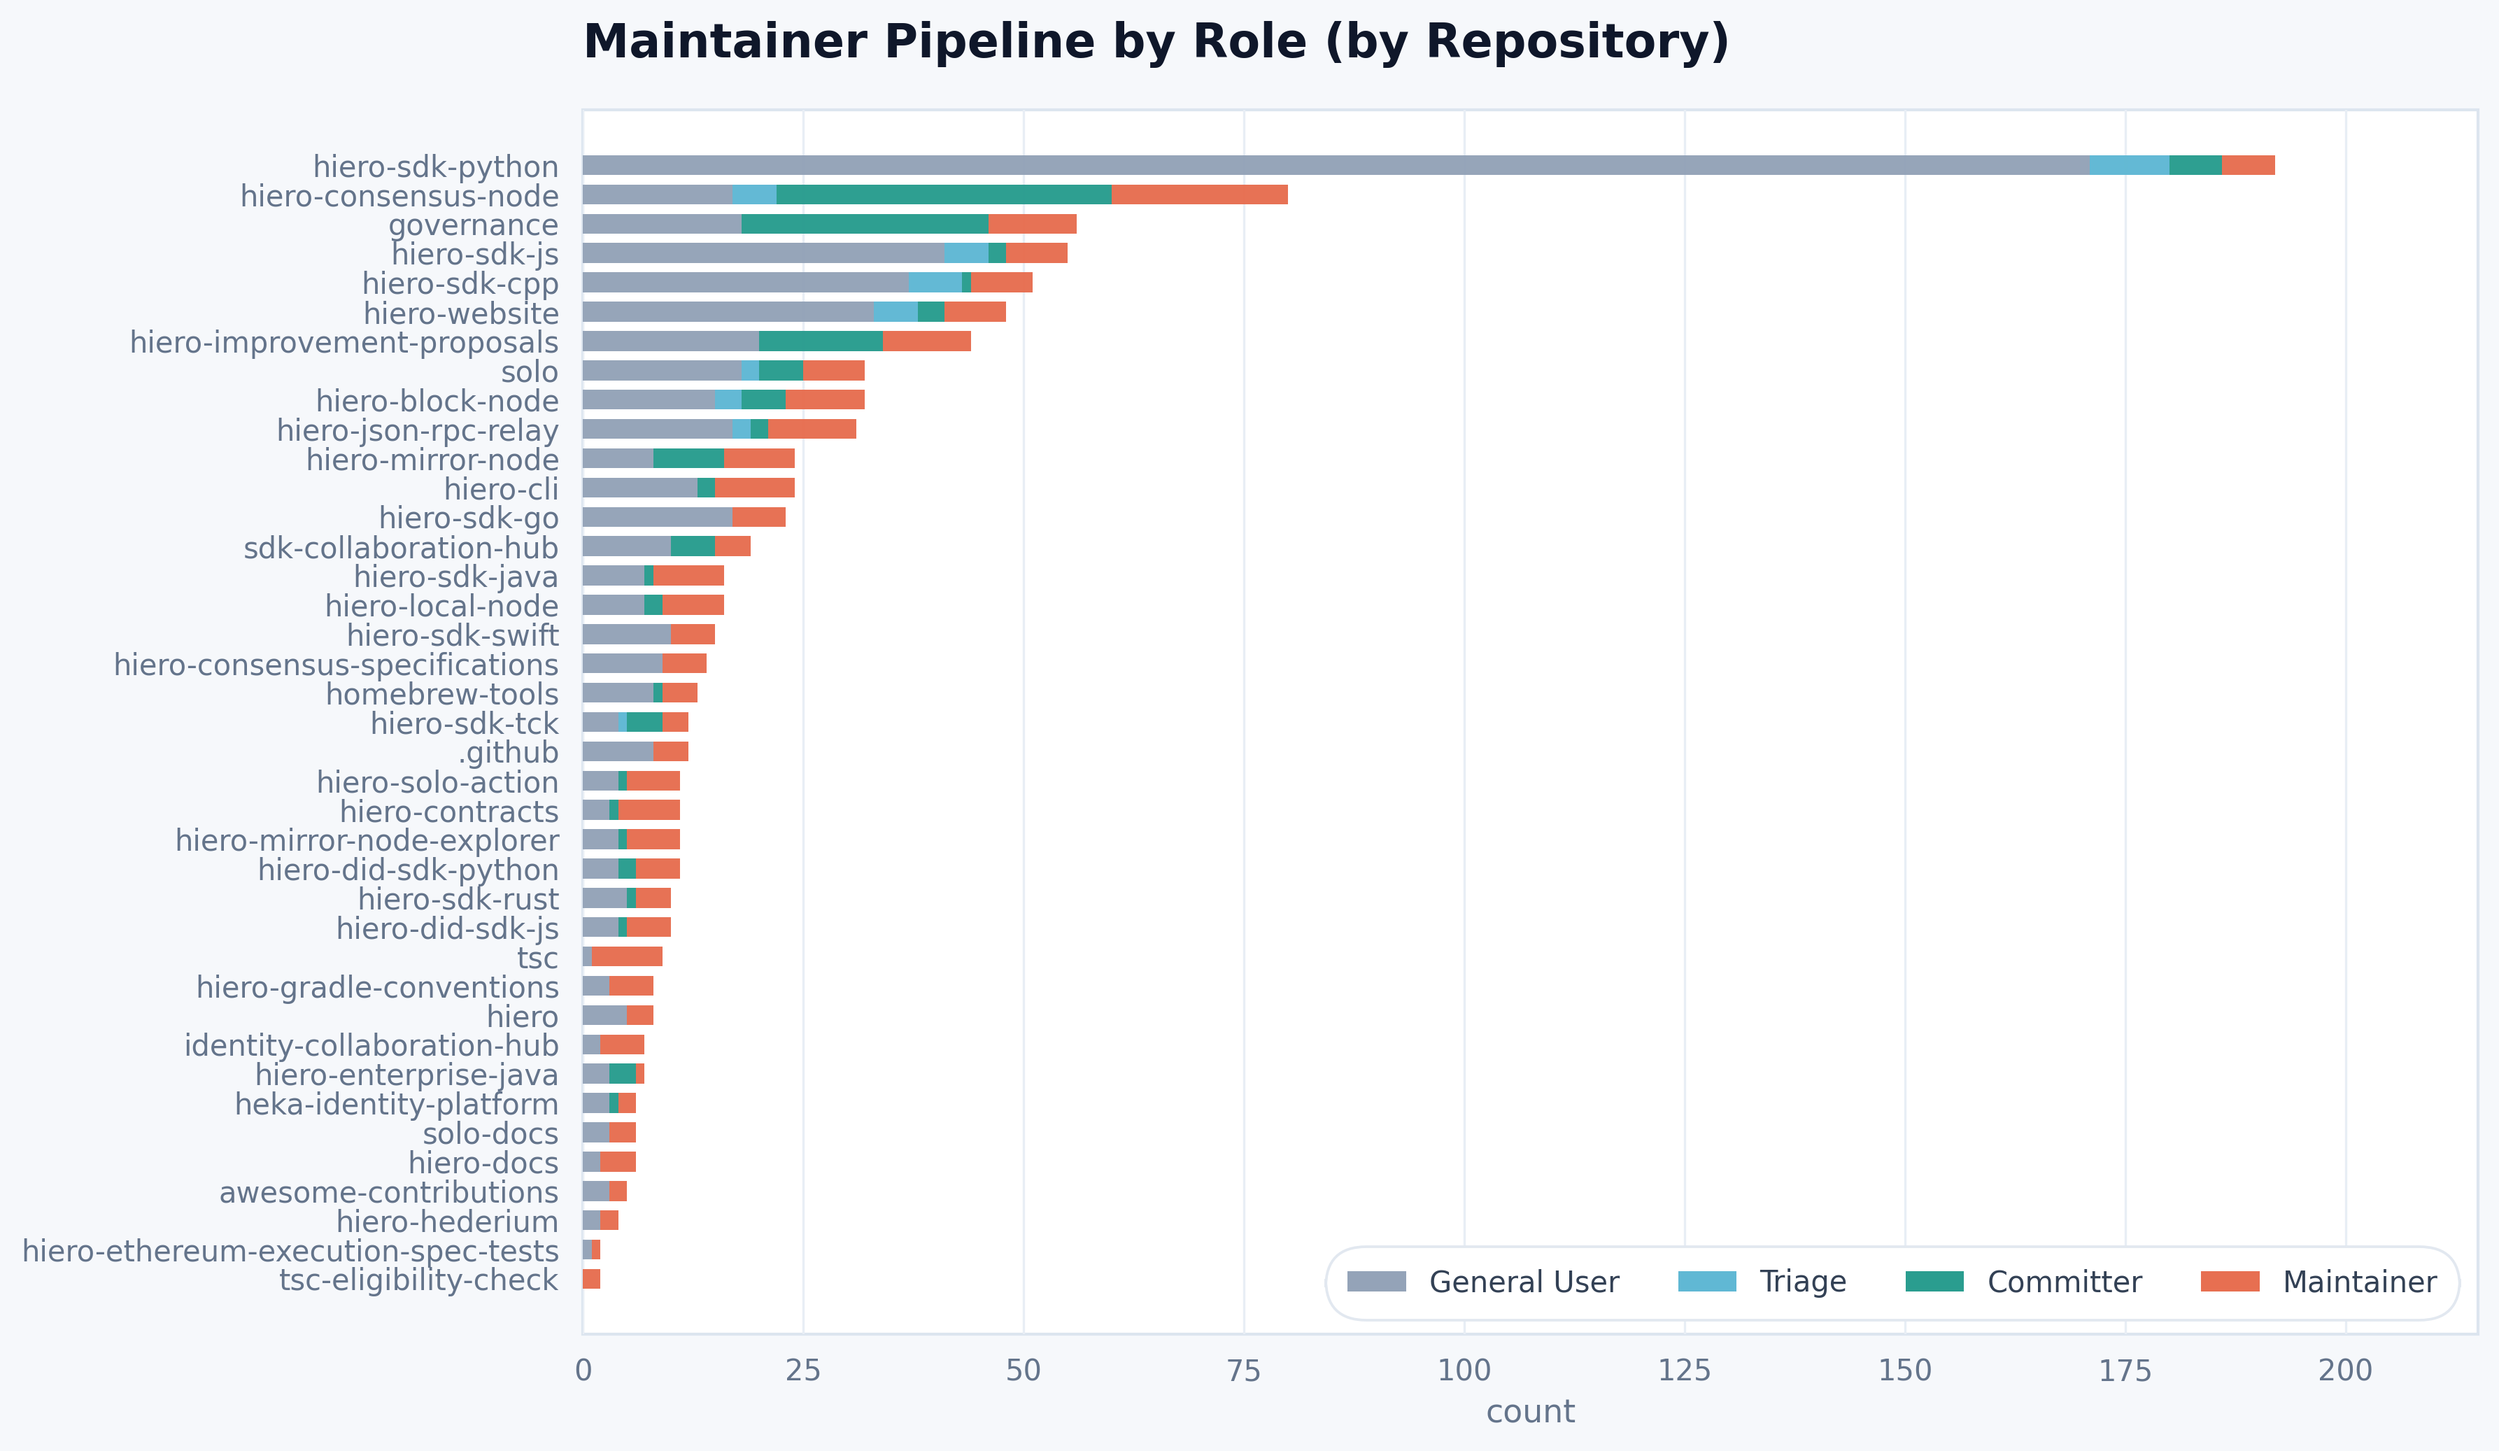
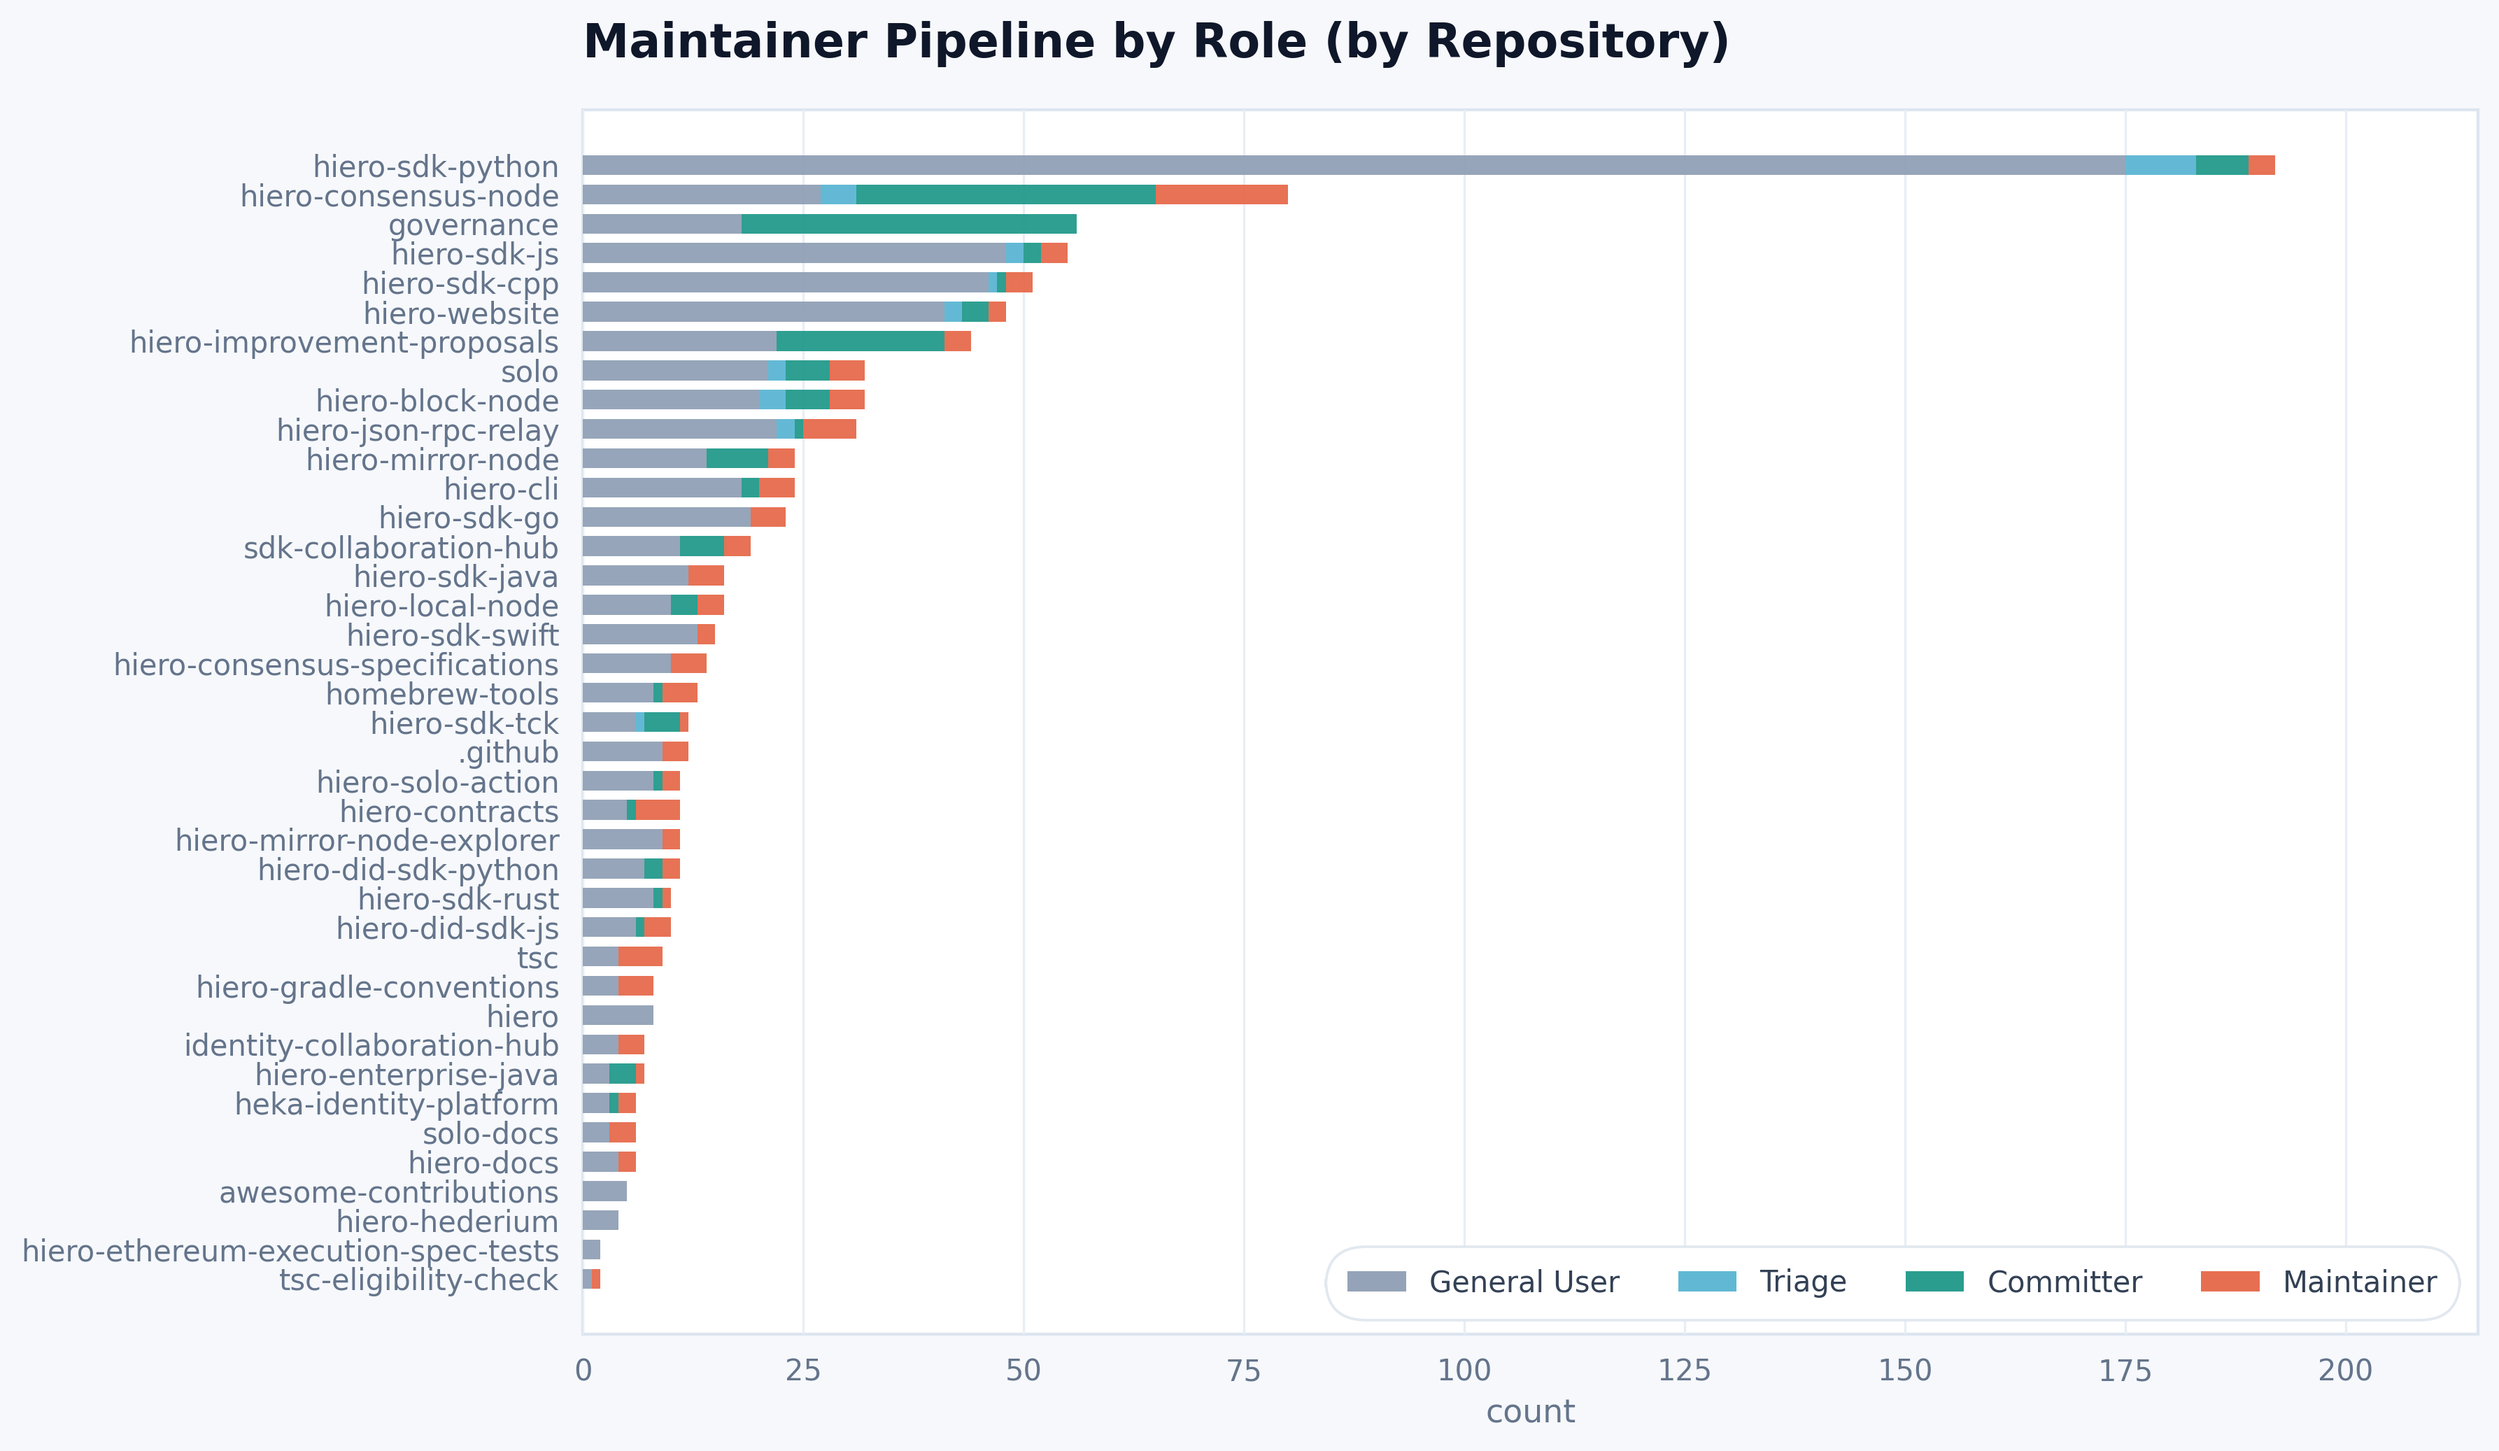
fix: on the maintainer pipeline

diff --git a/tests/data_sources/test_governance_config.py b/tests/data_sources/test_governance_config.py
@@ -1,7 +1,10 @@
+"""Tests for governance-config role mapping helpers."""
+
 from hiero_analytics.data_sources.governance_config import build_repo_role_lookup, permission_to_role
 
 
 def test_permission_to_role_maps_repo_permissions():
+    """Repository permissions should normalize into maintainer-pipeline roles."""
     assert permission_to_role("triage") == "triage"
     assert permission_to_role("write") == "committer"
     assert permission_to_role("maintain") == "maintainer"
@@ -10,20 +13,21 @@ def test_permission_to_role_maps_repo_permissions():
 
 
 def test_build_repo_role_lookup_assigns_highest_role_per_user():
+    """Repo-affined teams should resolve each user to their highest repo role."""
     config = {
         "teams": [
             {
-                "name": "repo-triage",
+                "name": "repo-a-triage",
                 "maintainers": ["triage-lead"],
                 "members": ["alice"],
             },
             {
-                "name": "repo-committers",
+                "name": "repo-a-committers",
                 "maintainers": ["commit-lead"],
                 "members": ["alice", "bob"],
             },
             {
-                "name": "repo-maintainers",
+                "name": "repo-a-maintainers",
                 "maintainers": ["maint-lead"],
                 "members": ["carol"],
             },
@@ -32,9 +36,9 @@ def test_build_repo_role_lookup_assigns_highest_role_per_user():
             {
                 "name": "repo-a",
                 "teams": {
-                    "repo-triage": "triage",
-                    "repo-committers": "write",
-                    "repo-maintainers": "maintain",
+                    "repo-a-triage": "triage",
+                    "repo-a-committers": "write",
+                    "repo-a-maintainers": "maintain",
                 },
             }
         ],
@@ -47,3 +51,74 @@ def test_build_repo_role_lookup_assigns_highest_role_per_user():
     assert repo_role_lookup["repo-a"]["bob"] == "committer"
     assert repo_role_lookup["repo-a"]["maint-lead"] == "maintainer"
     assert repo_role_lookup["repo-a"]["carol"] == "maintainer"
+
+
+def test_build_repo_role_lookup_excludes_global_and_more_specific_repo_teams():
+    """Broad teams and teams owned by a more specific repo should be ignored."""
+    config = {
+        "teams": [
+            {
+                "name": "solo-admins",
+                "maintainers": ["solo-admin"],
+                "members": [],
+            },
+            {
+                "name": "solo-docs-admins",
+                "maintainers": ["docs-admin"],
+                "members": [],
+            },
+            {
+                "name": "github-maintainers",
+                "maintainers": ["global-admin"],
+                "members": [],
+            },
+        ],
+        "repositories": [
+            {
+                "name": "solo",
+                "teams": {
+                    "solo-admins": "admin",
+                    "solo-docs-admins": "admin",
+                    "github-maintainers": "maintain",
+                },
+            },
+            {
+                "name": "solo-docs",
+                "teams": {
+                    "solo-docs-admins": "admin",
+                    "github-maintainers": "maintain",
+                },
+            },
+        ],
+    }
+
+    repo_role_lookup = build_repo_role_lookup(config)
+
+    assert repo_role_lookup["solo"] == {"solo-admin": "maintainer"}
+    assert repo_role_lookup["solo-docs"] == {"docs-admin": "maintainer"}
+
+
+def test_build_repo_role_lookup_normalizes_usernames():
+    """GitHub usernames should be trimmed and matched case-insensitively."""
+    config = {
+        "teams": [
+            {
+                "name": "hiero-website-committers",
+                "maintainers": ["LeadMaintainer "],
+                "members": ["ExplorerIII"],
+            }
+        ],
+        "repositories": [
+            {
+                "name": "hiero-website",
+                "teams": {
+                    "hiero-website-committers": "write",
+                },
+            }
+        ],
+    }
+
+    repo_role_lookup = build_repo_role_lookup(config)
+
+    assert repo_role_lookup["hiero-website"]["leadmaintainer"] == "committer"
+    assert repo_role_lookup["hiero-website"]["exploreriii"] == "committer"

diff --git a/src/hiero_analytics/data_sources/governance_config.py b/src/hiero_analytics/data_sources/governance_config.py
@@ -1,6 +1,9 @@
+"""Helpers for mapping governance config teams to repo-scoped contributor roles."""
+
 from __future__ import annotations
 
 import os
+import re
 from collections import defaultdict
 from typing import Any
 
@@ -22,6 +25,37 @@ ROLE_PRIORITY = {
 }
 
 
+def _normalize_username(user: str) -> str:
+    """Normalize GitHub logins for case-insensitive matching."""
+    return user.strip().lower()
+
+
+def _tokenize_name(value: str) -> tuple[str, ...]:
+    """Split a governance name into normalized alphanumeric tokens."""
+    return tuple(token for token in re.split(r"[^a-z0-9]+", value.lower()) if token)
+
+
+def _best_matching_repo_for_team(
+    team_name: str,
+    repo_name_tokens: dict[str, tuple[str, ...]],
+) -> str | None:
+    """Return the most specific repository name prefixed by the team name."""
+    team_tokens = _tokenize_name(team_name)
+
+    best_repo: str | None = None
+    best_length = 0
+    for repo_name, tokens in repo_name_tokens.items():
+        if len(tokens) > len(team_tokens):
+            continue
+        if team_tokens[: len(tokens)] != tokens:
+            continue
+        if len(tokens) > best_length:
+            best_repo = repo_name
+            best_length = len(tokens)
+
+    return best_repo
+
+
 def fetch_governance_config(url: str = GOVERNANCE_CONFIG_URL) -> dict[str, Any]:
     """Fetch and parse the Hiero governance config file."""
     response = requests.get(url, timeout=HTTP_TIMEOUT_SECONDS)
@@ -38,6 +72,11 @@ def build_repo_role_lookup(config: dict[str, Any]) -> dict[str, dict[str, str]]:
     """Build repo -> user -> highest governance role lookup from config.yaml."""
     teams = config.get("teams", [])
     repositories = config.get("repositories", [])
+    repo_name_tokens = {
+        repo["name"]: _tokenize_name(repo["name"])
+        for repo in repositories
+        if isinstance(repo, dict) and isinstance(repo.get("name"), str)
+    }
 
     team_members: dict[str, set[str]] = {}
     for team in teams:
@@ -52,8 +91,15 @@ def build_repo_role_lookup(config: dict[str, Any]) -> dict[str, dict[str, str]]:
         for field in ("maintainers", "members"):
             values = team.get(field, [])
             if isinstance(values, list):
-                members.update(user for user in values if isinstance(user, str) and user)
+                members.update(
+                    _normalize_username(user) for user in values if isinstance(user, str) and user
+                )
         team_members[name] = members
+
+    team_repo_affinity = {
+        team_name: _best_matching_repo_for_team(team_name, repo_name_tokens)
+        for team_name in team_members
+    }
 
     repo_roles: dict[str, dict[str, str]] = {}
     for repo in repositories:
@@ -67,6 +113,9 @@ def build_repo_role_lookup(config: dict[str, Any]) -> dict[str, dict[str, str]]:
 
         user_roles: dict[str, str] = {}
         for team_name, permission in assignments.items():
+            if team_repo_affinity.get(team_name) != repo_name:
+                continue
+
             role = permission_to_role(permission)
             if role is None:
                 continue

diff --git a/tests/analysis/test_maintainer_pipeline.py b/tests/analysis/test_maintainer_pipeline.py
@@ -1,9 +1,10 @@
+"""Tests for maintainer-pipeline aggregations."""
+
 from datetime import UTC, datetime
 
 import pandas as pd
 
 from hiero_analytics.analysis.maintainer_pipeline import (
-    STAGE_COLUMNS,
     activity_to_role_dataframe,
     build_maintainer_repo_pipeline,
     build_maintainer_yearly_pipeline,
@@ -24,6 +25,7 @@ def _record(activity_type: str, actor: str, repo: str, year: int) -> Contributor
 
 
 def test_activity_to_role_dataframe_filters_unknown_types():
+    """Only PR lifecycle records should be classified into governance stages."""
     role_lookup = {"repo-a": {"alice": "maintainer", "bob": "triage"}}
     records = [
         _record("authored_pull_request", "alice", "org/repo-a", 2024),
@@ -41,12 +43,23 @@ def test_activity_to_role_dataframe_filters_unknown_types():
 
 
 def test_activity_to_role_dataframe_defaults_unknown_actor_to_general_user():
+    """Actors missing from the lookup should remain in the general-user stage."""
     records = [_record("authored_pull_request", "unknown_actor", "org/repo-a", 2024)]
     df = activity_to_role_dataframe(records, {})
     assert df.iloc[0]["stage"] == "general_user"
 
 
+def test_activity_to_role_dataframe_matches_actor_case_insensitively():
+    """Mixed-case GitHub logins should still match normalized governance roles."""
+    records = [_record("authored_pull_request", "Alice", "org/repo-a", 2024)]
+
+    df = activity_to_role_dataframe(records, {"repo-a": {"alice": "maintainer"}})
+
+    assert df.iloc[0]["stage"] == "maintainer"
+
+
 def test_build_maintainer_yearly_pipeline_counts_unique_actors_per_stage():
+    """Yearly rollups should count unique actors once per stage."""
     role_lookup = {
         "repo-a": {"alice": "general_user", "bob": "triage", "carol": "committer"}
     }
@@ -68,6 +81,7 @@ def test_build_maintainer_yearly_pipeline_counts_unique_actors_per_stage():
 
 
 def test_build_maintainer_repo_pipeline_sorts_by_total():
+    """Repo rollups should sort repositories by total observed contributors."""
     role_lookup = {
         "repo-a": {"alice": "general_user", "bob": "triage", "carol": "committer"},
         "repo-b": {"dana": "general_user"},
@@ -89,6 +103,7 @@ def test_build_maintainer_repo_pipeline_sorts_by_total():
 
 
 def test_collapse_repo_pipeline_tail_aggregates_remaining_rows():
+    """Long repo tails should collapse into a single aggregated chart row."""
     repo_df = pd.DataFrame(
         [
             {"repo": "repo-a", "general_user": 10, "triage": 1, "committer": 2, "maintainer": 3},
@@ -111,6 +126,7 @@ def test_collapse_repo_pipeline_tail_aggregates_remaining_rows():
 
 
 def test_collapse_repo_pipeline_tail_noop_when_below_limit():
+    """Short repo tables should remain unchanged when under the chart limit."""
     repo_df = pd.DataFrame(
         [
             {"repo": "repo-a", "general_user": 1, "triage": 0, "committer": 0, "maintainer": 0},

diff --git a/src/hiero_analytics/analysis/maintainer_pipeline.py b/src/hiero_analytics/analysis/maintainer_pipeline.py
@@ -1,3 +1,5 @@
+"""Analytics helpers for maintainer-pipeline role classification."""
+
 from __future__ import annotations
 
 import pandas as pd
@@ -25,7 +27,8 @@ def activity_to_role_dataframe(
             continue
 
         repo_name = record.repo.split("/")[-1]
-        role = repo_role_lookup.get(repo_name, {}).get(record.actor, "general_user")
+        actor_key = record.actor.strip().lower()
+        role = repo_role_lookup.get(repo_name, {}).get(actor_key, "general_user")
 
         rows.append(
             {
